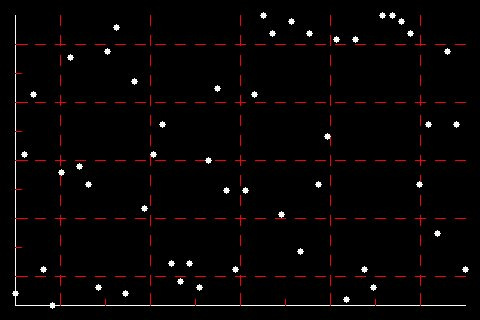
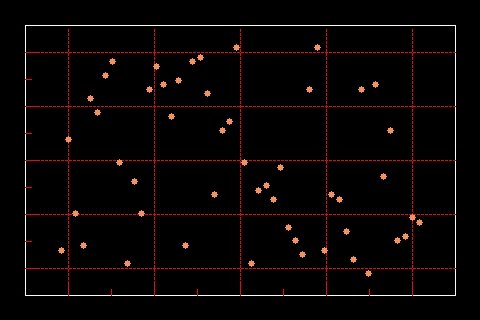
adding pics

diff --git a/README.rst b/README.rst
@@ -11,12 +11,14 @@
     :target: https://github.com/psf/black
     :alt: Code Style: Black
 
-Framework to display different plots in displayio. Similar to widget.
+Framework to display different graphical plots in displayio.
 Take a look in the `examples <https://circuitpython-uplot.readthedocs.io/en/latest/examples.html>`_ section in RTD to see the gallery
 
 For detailed view of the library please refer to the `Quick start guide <https://circuitpython-uplot.readthedocs.io/>`_
 
 .. image:: https://github.com/jposada202020/CircuitPython_uplot/blob/main/docs/readme.png
+
+.. image:: https://github.com/jposada202020/CircuitPython_uplot/blob/main/docs/readme2.png
 
 
 Dependencies
@@ -25,7 +27,7 @@ This library depends on:
 
 * `Adafruit CircuitPython <https://github.com/adafruit/circuitpython>`_
 
-This library is ressource consuming, may or may not with some CircuitPython supported devices.
+This library is resource consuming, may or may not with some CircuitPython supported devices.
 Tinker it as you wish in order to work.
 
 Please ensure all dependencies are available on the CircuitPython filesystem.
